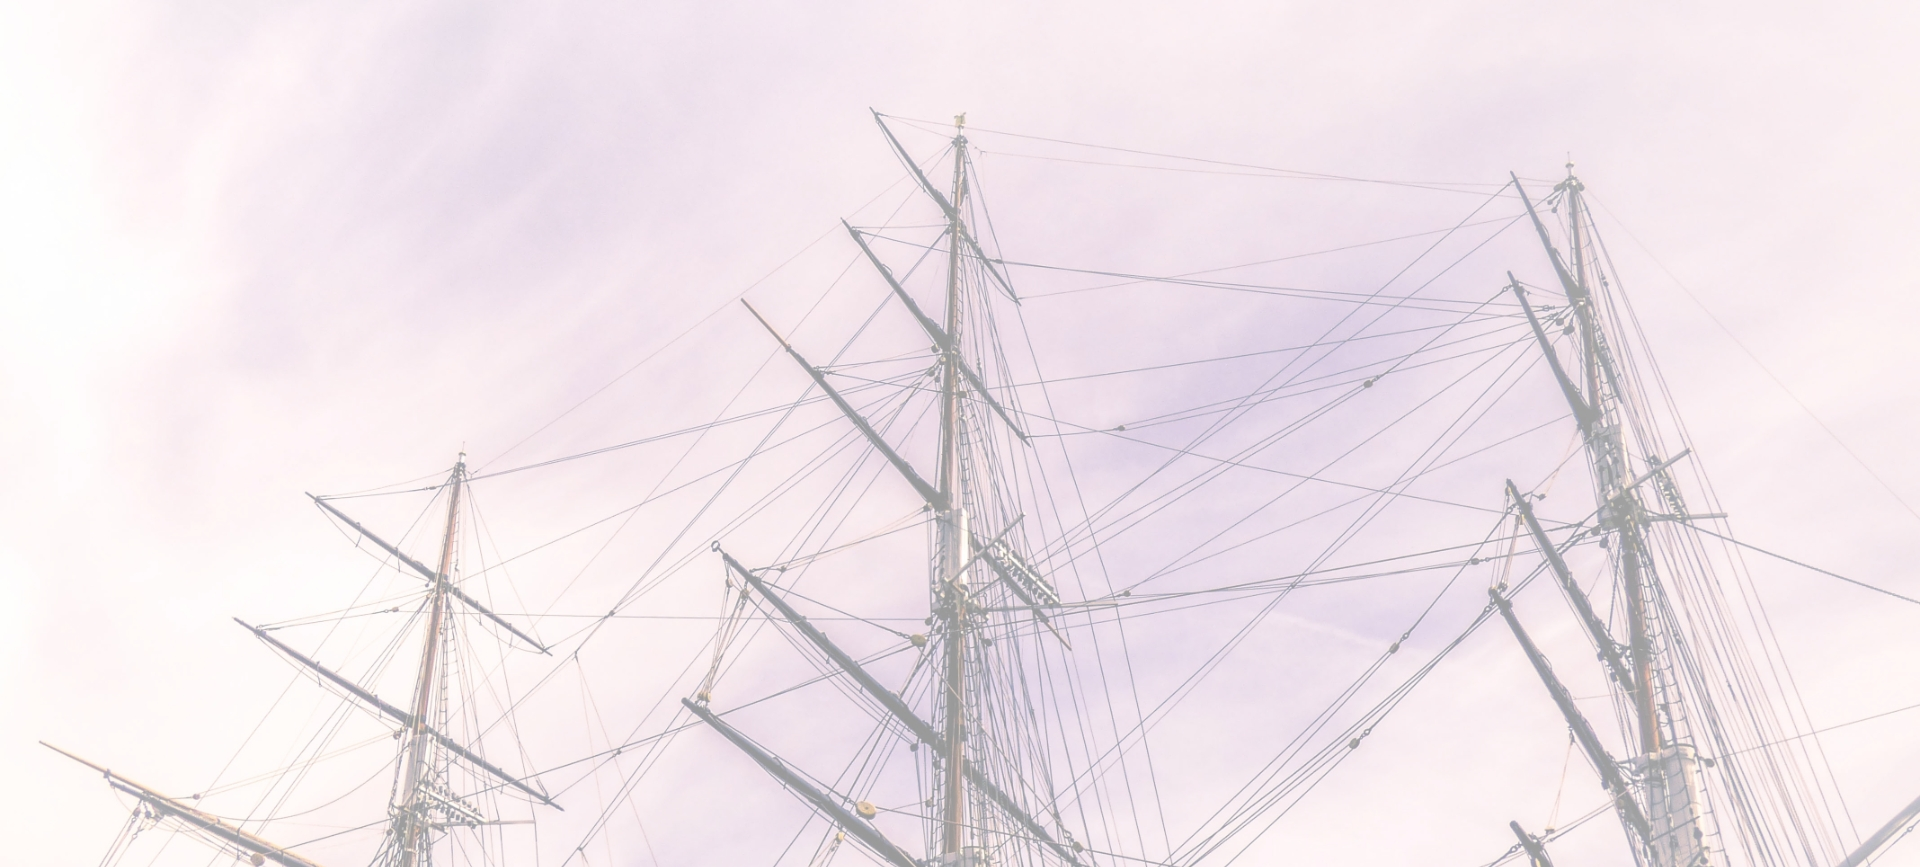
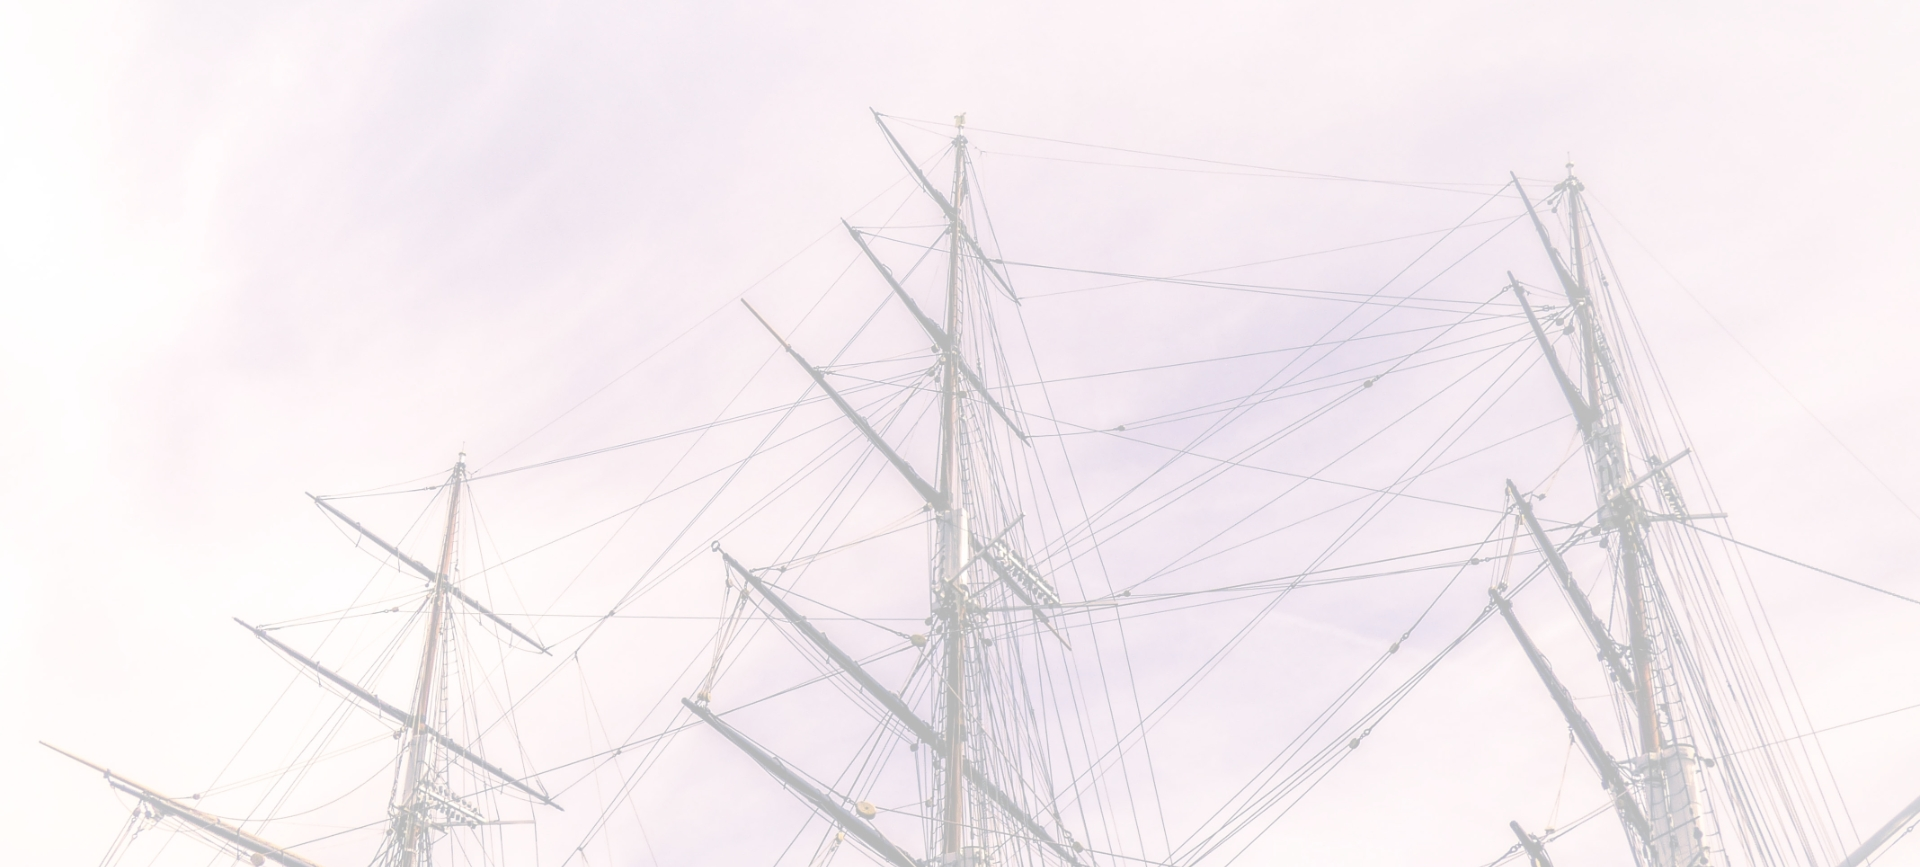
fixing letter template and renaming links

diff --git a/site/layouts/partials/nav.html b/site/layouts/partials/nav.html
@@ -8,13 +8,13 @@
 
 	<!-- Primary Nav -->
 	<ul class="flex b grey-3">
-		<li><a href="/products" class="pa3 no-underline db">Books</a></li>
+		<li><a href="/books" class="pa3 no-underline db">Books</a></li>
 
-		<li><a href="/values" class="pa3 no-underline db">Tours</a></li>
+		<li><a href="/tours" class="pa3 no-underline db">Tours</a></li>
 
-		<li><a href="/post" class="pa3 no-underline db">Letters</a></li>
+		<li><a href="/letters" class="pa3 no-underline db">Letters</a></li>
 
-		<li><a href="/contact" class="pa3 no-underline db">About</a></li>
+		<li><a href="/about" class="pa3 no-underline db">About</a></li>
 	</ul>
 
 </nav>

diff --git a/site/layouts/_default/list.html b/site/layouts/_default/list.html
@@ -1,8 +1,9 @@
 {{ define "main" }}
 
-{{ partial "jumbotron" (dict "imageUrl" "/img/blog-index.jpg" "title" "Latest stories") }}
-
-<div class="mw7 center">
+<div class="center cover" style="background-image: url(/img/envelope.jpg)">
+  <h1 class="f2 f1-l b di lh-title mb3 dark-blue mw6">
+    Latest Stories
+  </h1>
   <ul class="flex-ns flex-wrap mhn1-ns pa3">
       {{ range (.Paginator 4).Pages.ByPublishDate.Reverse }}
           <div class="w-50-ns ph1-ns flex">

diff --git a/site/content/books/_index.md b/site/content/books/_index.md
@@ -1,6 +1,6 @@
 ---
-title: Books
-type: products
+title: "Books"
+type: books
 books:
     - background_image: /img/radio_tower.jpg
       heading: Loud Let It Ring
@@ -14,15 +14,15 @@ books:
     - background_image: /img/galleon.jpg
       heading: The French Pilot
       sub_heading: A Seafaring Tale of Adventure and Faith
-      text_size: f8
+      text_size: f7
       width: w-75
       text: >
         Learn about the interesting story of Andre Lamoreaux a huguenot migrant to England, ship master, ship builder and later in life captured by pirates.
       book_image: /img/books/unkTFP.jpg
-    - background_image: /img/santaFe.jpg
+    - background_image: /img/santaFe-opaque.jpg
       heading: Santa Fe 1880      
       sub_heading: Chronicles from the Year of the Railroad
-      text_size: f8
+      text_size: f7
       width: w-75
       text_color: black
       text: >
